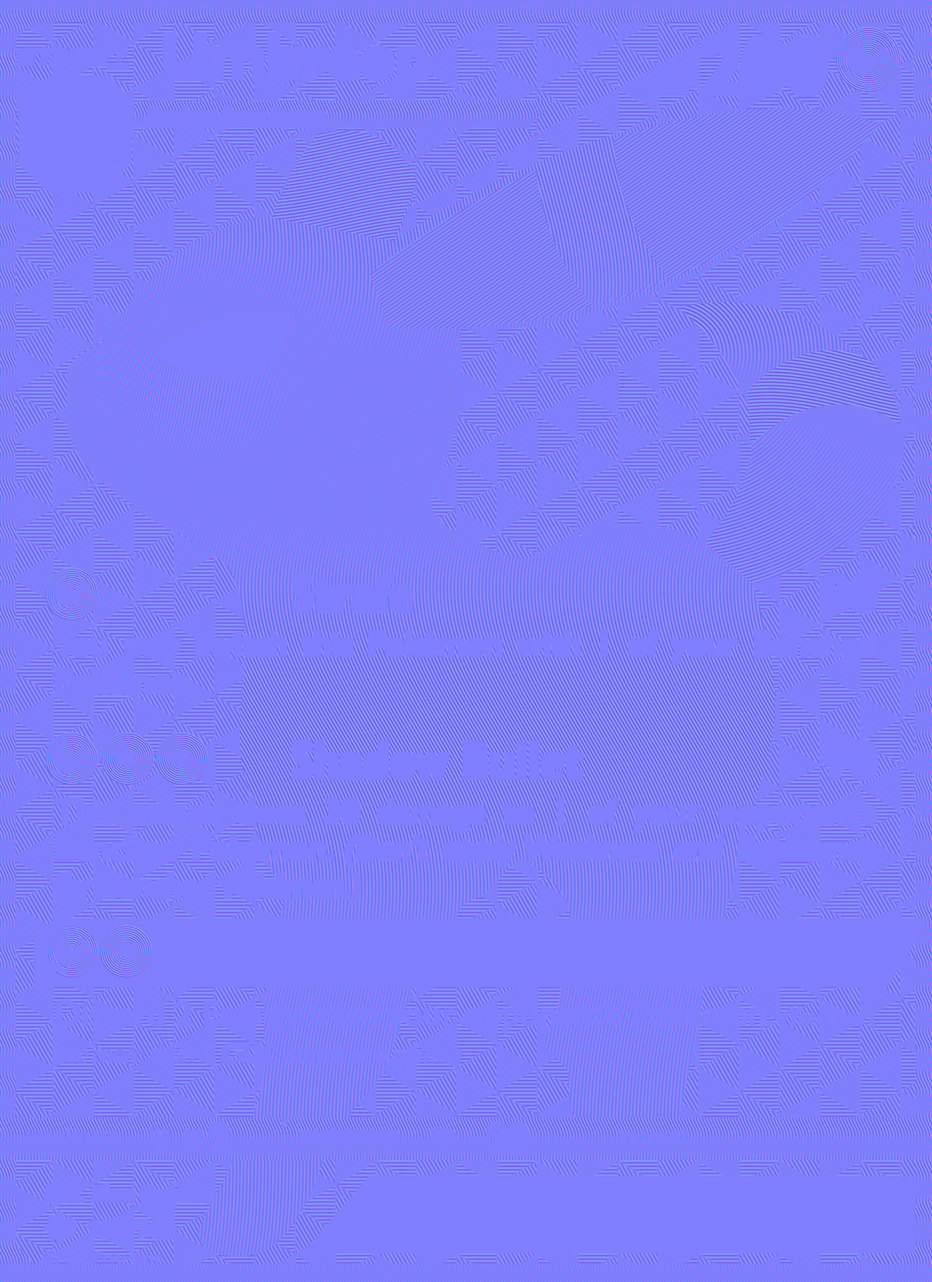
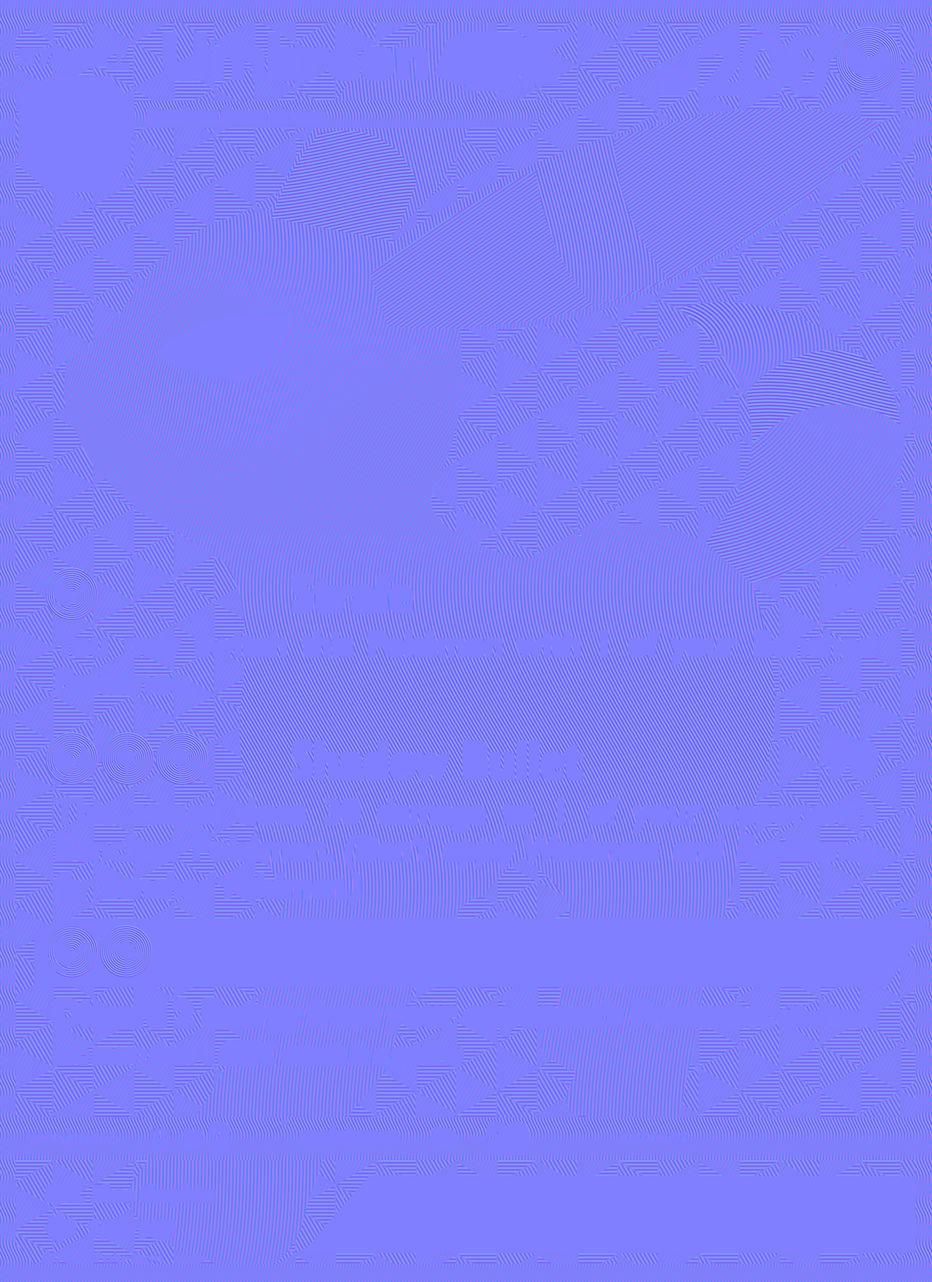
Update Umbreon GX normals from edited body mask

diff --git a/scripts/create-umbreon-gx-maps.py b/scripts/create-umbreon-gx-maps.py
@@ -1,11 +1,20 @@
 from pathlib import Path
-import re, json, hashlib
+import re, json, hashlib, argparse
 import numpy as np,cv2
 from PIL import Image,ImageDraw,ImageFilter
 from umbreon_gx_geometry import BODY,LEG_GAP,EAR,EAR_RING,TAIL,TAIL_RING,REAR_EAR,EYE,GX,RULE,BARS
 ROOT=Path(__file__).resolve().parents[1]; OUT=ROOT/'public/cards/umbreon-gx-sm1-154'; REF=ROOT/'research/umbreon-gx-sm1-154'; REVIEW=ROOT/'artifacts/umbreon-gx-sm1-154'
 W,H,S=1800,2475,3
+parser=argparse.ArgumentParser()
+parser.add_argument('--normal-only',action='store_true',help='Rebuild normal.png using the edited body and protection PNGs without overwriting other maps.')
+args=parser.parse_args()
 y,x=np.mgrid[:H,:W].astype(np.float32)/S
+
+def read_mask(name):
+ im=Image.open(OUT/(name+'.png')).convert('RGBA')
+ if im.size!=(W,H): raise ValueError(f'{name}.png must be {W}x{H}')
+ rgba=np.asarray(im,np.float32)/255
+ return np.asarray(im.convert('L'),np.float32)/255*rgba[:,:,3]
 
 def path_points(path):
  t=re.findall(r'[MLQCZ]|-?\d*\.?\d+',path); i=0; out=[]; p=np.zeros(2)
@@ -26,6 +35,7 @@ def mask(path):
 def slope(h):
  gy,gx=np.gradient(h,1/S,1/S); return gx,gy
 body=mask(BODY)*(1-mask(LEG_GAP))
+if args.normal_only: body=read_mask('body')
 gxbar=mask(GX); rule=mask(RULE); bars=np.maximum.reduce([mask(p) for p in BARS]); eye=mask(EYE)
 front=np.asarray(Image.open(OUT/'front.png').convert('RGB').resize((W,H)),np.float32)/255
 # Independent glyph protection. Only dark connected strokes with white keylines,
@@ -112,7 +122,9 @@ h=.93*np.sin(phase*2*np.pi/2.25); hx,hy=slope(h)
 nx=nx*(1-body)+hx*body; ny=ny*(1-body)+hy*body; height=height*(1-body)+h*body
 for path,phase,pitch in [(EAR,.57*x+.82*y,2.15),(EAR_RING,x+11*np.sin(y/39),2.25),(REAR_EAR,y+8*np.sin(x/35),2.1),
  (TAIL,np.hypot((x-431)*.9,y-228),2.2),(TAIL_RING,y+9*np.sin(x/35),2.15)]:
- region=mask(path); h=.93*np.sin(phase*2*np.pi/pitch); hx,hy=slope(h)
+ region=mask(path)
+ if args.normal_only: region*=body
+ h=.93*np.sin(phase*2*np.pi/pitch); hx,hy=slope(h)
  nx=nx*(1-region)+hx*region; ny=ny*(1-region)+hy*region; height=height*(1-region)+h*region
 # Silver trim is a wave engraving; the outer edge carries the same finish.
 rim=1-mask('M21 14 L579 14 L588 25 L589 798 L577 813 L22 813 L10 800 L10 25 Z')
@@ -126,8 +138,16 @@ for cx,cy,r in [(46,382,17),(46,488,17),(82,488,17),(117,488,17),(46,612,17),(81
  nx=nx*(1-region)+hx*region; ny=ny*(1-region)+hy*region; height=height*(1-region)+h*region
  # Central energy symbols remain opaque but rings retain relief.
  protection=np.maximum(protection,region*black)
+if args.normal_only: protection=read_mask('protection')
 active=1-protection; nx*=active; ny*=active; height*=active
 normal=np.stack([-nx*.16,ny*.16,np.ones_like(nx)],axis=2); normal/=np.linalg.norm(normal,axis=2,keepdims=True)
+if args.normal_only:
+ Image.fromarray(np.uint8(np.clip(normal*.5+.5,0,1)*255)).save(OUT/'normal.png')
+ manifest=json.loads((OUT/'source.json').read_text())
+ for name in ('body.png','protection.png','normal.png'):
+  manifest['maps'][name]=hashlib.sha256((OUT/name).read_bytes()).hexdigest()
+ (OUT/'source.json').write_text(json.dumps(manifest,indent=2)+'\n')
+ raise SystemExit(0)
 rough=.32+.035*body-.025*wave; rough=rough*(1-smooth)+.23*smooth
 foil=np.ones((H,W),np.float32)*.97
 arrays={'body':body,'bars':wave,'gx-smooth':gxbar*(1-energy),'energy':energy,'foil':foil,'protection':protection,'height':.5+height*.22,'normal':normal*.5+.5,'roughness':rough}

diff --git a/docs/umbreon-gx-sm1-154.md b/docs/umbreon-gx-sm1-154.md
@@ -43,3 +43,8 @@ facet noise are disabled.
 Reproduce with python scripts/register-umbreon-gx.py followed by
 python scripts/create-umbreon-gx-maps.py. Overlays and light/tilt captures are in
 artifacts/umbreon-gx-sm1-154. source.json records front and map hashes.
+
+After manually editing body.png or protection.png, run
+`python scripts/create-umbreon-gx-maps.py --normal-only` to refresh normal.png
+from those PNGs while preserving all other maps. Ear and tail relief is clipped
+to the edited body silhouette; source.json refreshes the input and normal hashes.
